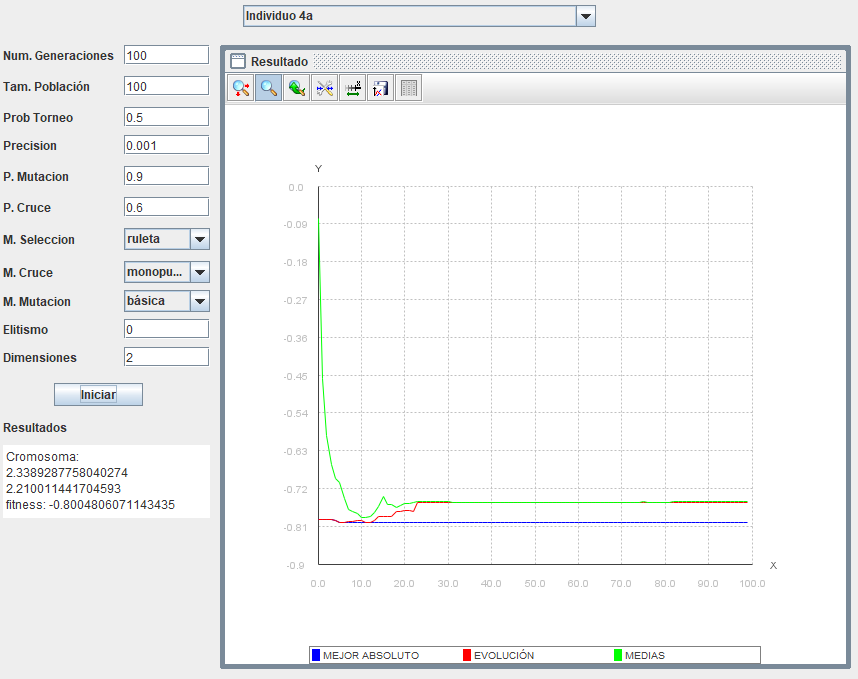
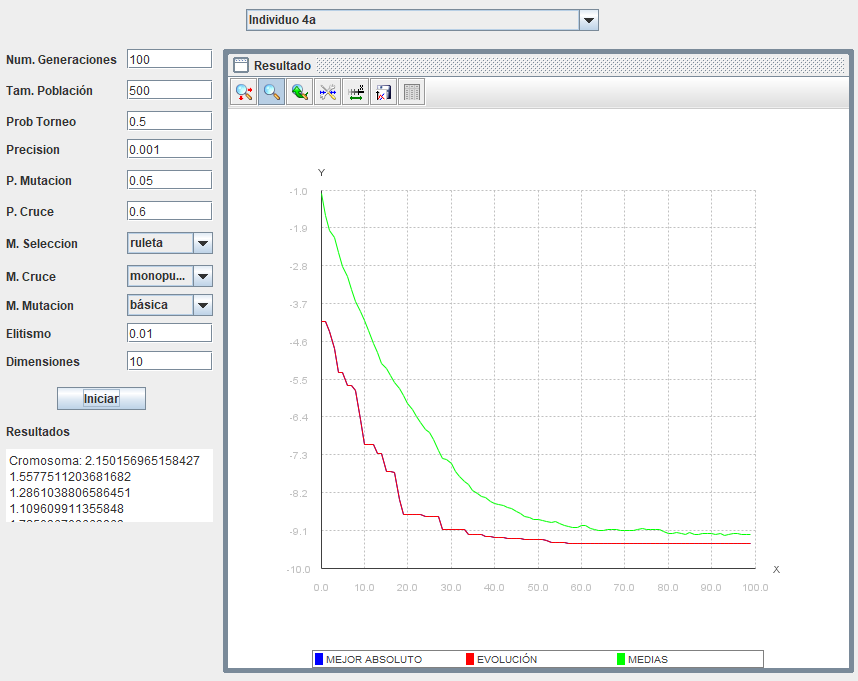
Arreglados 4a y 4b

diff --git a/Practicas/G02P1/src/main/java/g02/individuals/IndividuoFuncion4a.java b/Practicas/G02P1/src/main/java/g02/individuals/IndividuoFuncion4a.java
@@ -23,7 +23,7 @@ public class IndividuoFuncion4a extends Individuo<Boolean> {
       this.tamGenes[i] = this.tamGen(precision, min[i], max[i]);
     }
 
-    int tamTotal = 0;
+    tamTotal = 0;
 
     for (int i = 0; i < _dimension; ++i) {
       tamTotal += tamGenes[i];
@@ -97,8 +97,8 @@ public class IndividuoFuncion4a extends Individuo<Boolean> {
       start = 0;
       end = this.tamGenes[index] - 1;
     } else {
-      start = this.tamGenes[index - 1];
-      end = this.tamGenes[index] + this.tamGenes[index - 1] - 1;
+      start = this.tamGenes[index - 1] * index;
+      end = start + this.tamGenes[index] - 1;
     }
 
 
@@ -121,11 +121,10 @@ public class IndividuoFuncion4a extends Individuo<Boolean> {
 
     int M = 10;
 
-    for (int i = 0; i < _dimension; ++i) {
+    for (int i = 0; i < _dimension; i++) {
       double x = this.getFenotipo(i);
-      sum += Math.sin(x) * Math.pow(Math.sin(i * Math.pow(x, 2) / Math.PI), 2 * M);
+      sum += Math.sin(x) * Math.pow(Math.sin((i + 1) * Math.pow(x, 2) / Math.PI), 2 * M);
     }
-
 
     return -sum;
   }

diff --git a/Practicas/G02P1/src/main/java/g02/algoritmogenetico/AlgoritmoGenetico.java b/Practicas/G02P1/src/main/java/g02/algoritmogenetico/AlgoritmoGenetico.java
@@ -78,7 +78,7 @@ public class AlgoritmoGenetico<T> {
     evaluate(0);
     
     for (int i = 0; i < _maxGeneraciones; ++i) {
-      System.out.println(i);
+      //System.out.println(i);
       
       int directos = (int) Math.round(_poblacion.size() * _elitismo);
       ArrayList<Individuo<T>> newPob = new ArrayList<>();
@@ -167,6 +167,7 @@ public class AlgoritmoGenetico<T> {
     	}
     	else if(!isMax) {
     		if (_poblacion.get(i).fitness() < auxMejor.fitness()) {
+    			
     			auxMejor = _poblacion.get(i);
     		}
     	}

diff --git a/Practicas/G02P1/src/main/java/g02/individuals/IndividuoFuncion4b.java b/Practicas/G02P1/src/main/java/g02/individuals/IndividuoFuncion4b.java
@@ -58,7 +58,7 @@ public class IndividuoFuncion4b extends Individuo<Double> {
 	  int M = 10;
 
 	    for (int i = 0; i < this.tamTotal; ++i) {
-	      sum += Math.sin(this._chromosome[i]) * Math.pow(Math.sin(i * Math.pow(this._chromosome[i], 2) / Math.PI), 2 * M);
+	      sum += Math.sin(this._chromosome[i]) * Math.pow(Math.sin((i + 1) * Math.pow(this._chromosome[i], 2) / Math.PI), 2 * M);
 	    }
     return -sum;
   }

diff --git a/Practicas/G02P1/src/main/java/g02/individuals/IndividuoFuncion2.java b/Practicas/G02P1/src/main/java/g02/individuals/IndividuoFuncion2.java
@@ -81,7 +81,7 @@ public class IndividuoFuncion2 extends Individuo<Boolean> {
       start = 0;
       end = this.tamGenes[index] - 1;
     } else {
-      start = this.tamGenes[index - 1];
+      start = this.tamGenes[index - 1] * index;
       end = this.tamGenes[index] + this.tamGenes[index - 1] - 1;
     }
 
